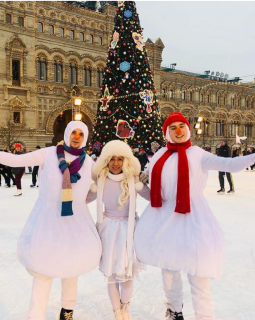
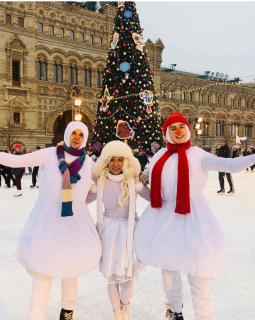
иконка

diff --git a/src/pages/services.jsx b/src/pages/services.jsx
@@ -298,7 +298,7 @@ const Services = () => (
                                 Предоставим массовку в любом объёме и количестве! 
                                 </p>
                             </div>
-                            <img className="service__img" src="/static/img/helper-staff.jpg" alt=""/>
+                            <img className="service__img" src="/static/img/extras-staff.jpg" alt=""/>
                                 <h3 className="service__title">Массовка</h3>
 																<div className="service__title-back"></div>
                         </div>

diff --git a/src/index.css b/src/index.css
@@ -958,7 +958,7 @@ body {
   overflow: hidden;
   border-radius: 15px;
   box-shadow: 0px 6px 20px rgba(0, 38, 71, 0.5);
-  margin-top: 30px;
+	margin: 30px auto 35px;
 }
 
 .staff__card:hover .staff__text  {
